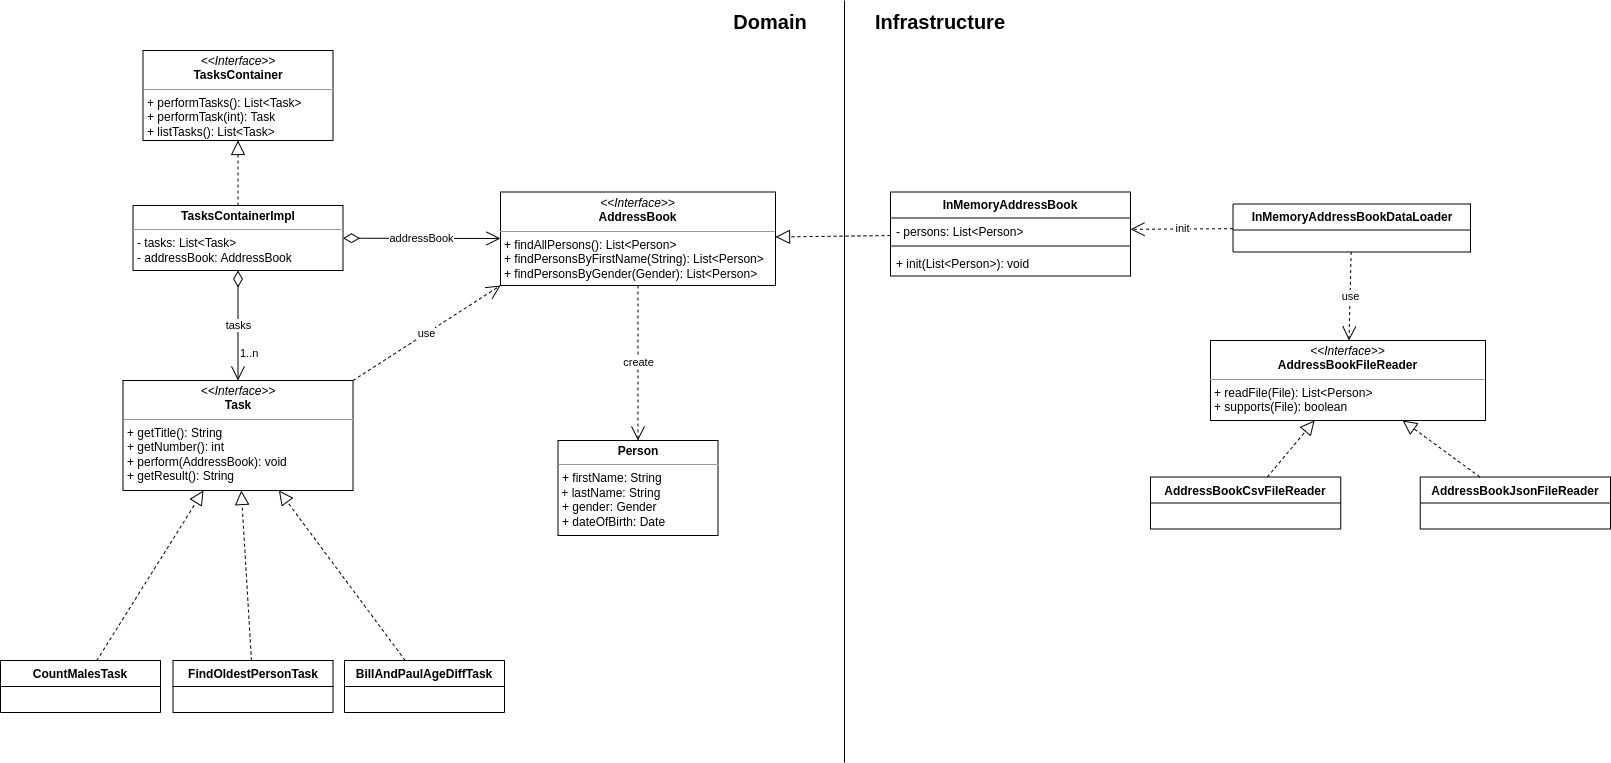
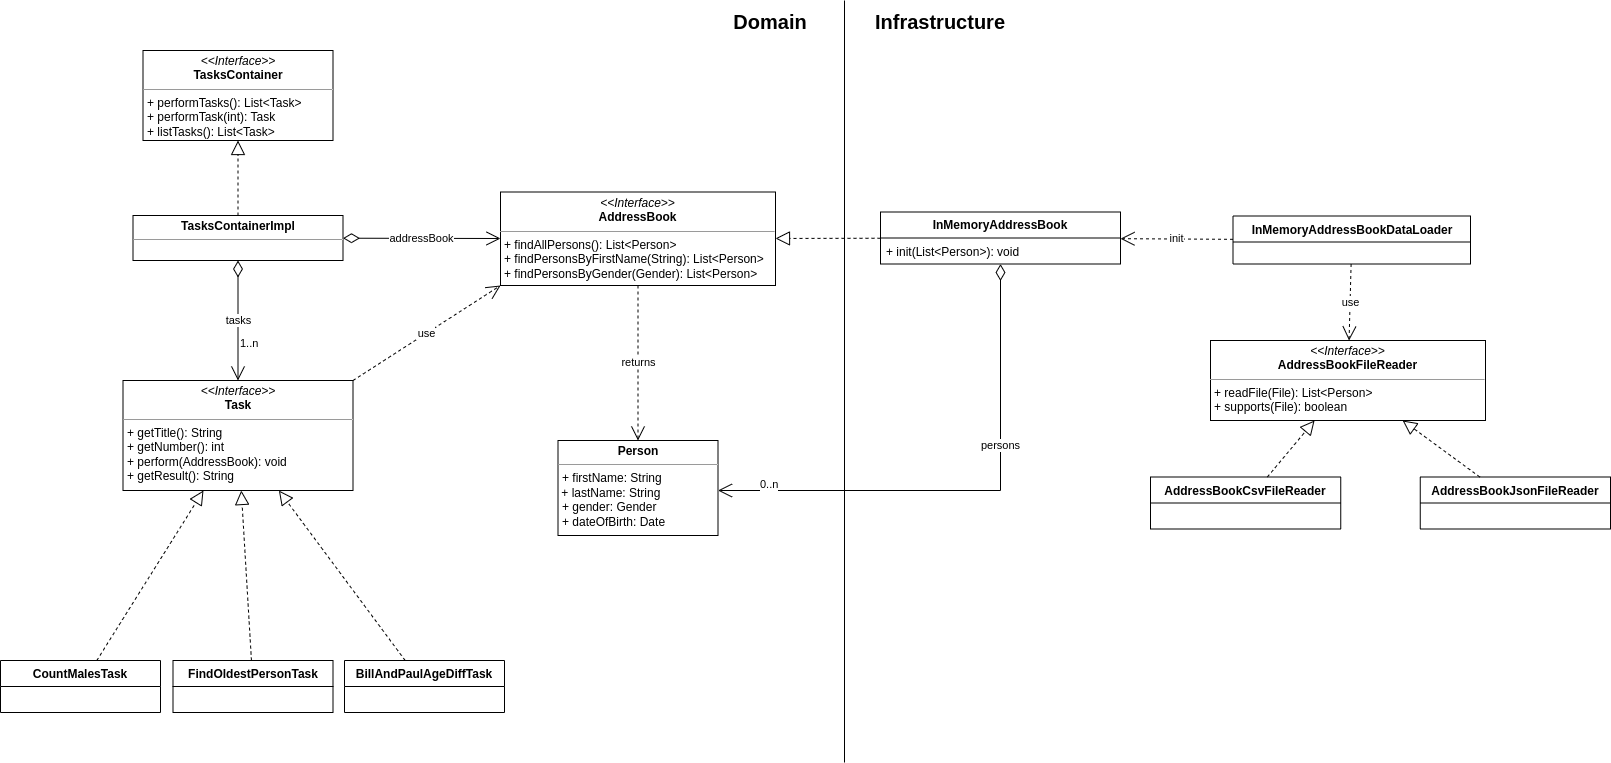
Added AddressBookFileReader and InMemoryAddressBookDataLoader to fill InMemoryAddressBook with persons from file; added integration test; added info to readme file.

diff --git a/src/main/java/com/example/addressbook/infrastructure/file/reader/csv/AddressBookCsvFileReader.java b/src/main/java/com/example/addressbook/infrastructure/file/reader/csv/AddressBookCsvFileReader.java
@@ -1,0 +1,51 @@
+package com.example.addressbook.infrastructure.file.reader.csv;
+
+import com.example.addressbook.domain.model.Gender;
+import com.example.addressbook.domain.model.Person;
+import com.example.addressbook.infrastructure.file.reader.AddressBookFileReader;
+import com.example.addressbook.infrastructure.file.reader.csv.model.CsvPerson;
+import com.example.addressbook.infrastructure.inmemory.InMemoryAddressBook;
+import com.opencsv.bean.CsvToBeanBuilder;
+import java.io.File;
+import java.io.FileReader;
+import java.util.List;
+import lombok.SneakyThrows;
+import lombok.extern.slf4j.Slf4j;
+import org.springframework.boot.autoconfigure.condition.ConditionalOnBean;
+import org.springframework.core.Ordered;
+import org.springframework.core.annotation.Order;
+import org.springframework.stereotype.Component;
+
+@ConditionalOnBean(InMemoryAddressBook.class)
+@Order(Ordered.HIGHEST_PRECEDENCE)
+@Component
+@Slf4j
+public class AddressBookCsvFileReader implements AddressBookFileReader {
+
+  @SneakyThrows
+  @Override
+  public List<Person> readFile(File file) {
+    try (var fileReader = new FileReader(file)) {
+      var csvToBeanBuilder = new CsvToBeanBuilder<CsvPerson>(fileReader);
+      List<CsvPerson> csvPersons = csvToBeanBuilder.withType(CsvPerson.class).build().parse();
+      log.debug("Parsed csv persons: {}", csvPersons);
+
+      return csvPersons.stream().map(this::map).toList();
+    }
+  }
+
+  private Person map(CsvPerson csvPerson) {
+
+    var parts = csvPerson.getFullName().trim().split("\\s", 2);
+    return new Person(
+        parts[0],
+        parts.length > 1 ? parts[1] : "",
+        Gender.valueOf(csvPerson.getGender().trim().toUpperCase()),
+        csvPerson.getDateOfBirth());
+  }
+
+  @Override
+  public boolean supports(File file) {
+    return file.getName().toLowerCase().trim().endsWith(".csv");
+  }
+}

diff --git a/src/main/java/com/example/addressbook/AddressBookApplication.java b/src/main/java/com/example/addressbook/AddressBookApplication.java
@@ -1,12 +1,51 @@
 package com.example.addressbook;
 
+import com.example.addressbook.domain.tasks.Task;
+import com.example.addressbook.domain.tasks.TaskContainer;
+import lombok.AccessLevel;
+import lombok.NoArgsConstructor;
+import lombok.RequiredArgsConstructor;
+import org.springframework.boot.ApplicationArguments;
+import org.springframework.boot.ApplicationRunner;
 import org.springframework.boot.SpringApplication;
 import org.springframework.boot.autoconfigure.SpringBootApplication;
 
 @SpringBootApplication
-public class AddressBookApplication {
+@RequiredArgsConstructor
+public class AddressBookApplication implements ApplicationRunner {
 
   public static void main(String[] args) {
     SpringApplication.run(AddressBookApplication.class, args);
+  }
+
+  private final TaskContainer taskContainer;
+
+  @Override
+  public void run(ApplicationArguments args) {
+    var filePaths = args.getOptionValues(AddressBookApplication.CommandLineConstants.FILE_PATH);
+    if (filePaths != null && !filePaths.isEmpty()) {
+      taskContainer.performTasks().forEach(AddressBookApplication::printTaskToConsole);
+    } else {
+      System.err.println("Pass correct arguments");
+      printUsage();
+      System.exit(1);
+    }
+  }
+
+  private static void printTaskToConsole(Task task) {
+    System.out.printf("%d. %s%n", task.getNumber(), task.getTitle());
+    if (task.getResult() != null) {
+      System.out.println(task.getResult());
+    }
+  }
+
+  private static void printUsage() {
+    System.out.printf(
+        "Usage: java -jar address-book.jar [--%s=<file path>]%n", CommandLineConstants.FILE_PATH);
+  }
+
+  @NoArgsConstructor(access = AccessLevel.PRIVATE)
+  public static final class CommandLineConstants {
+    public static final String FILE_PATH = "filePath";
   }
 }

diff --git a/src/main/java/com/example/addressbook/infrastructure/inmemory/InMemoryAddressBookDataLoader.java b/src/main/java/com/example/addressbook/infrastructure/inmemory/InMemoryAddressBookDataLoader.java
@@ -1,0 +1,46 @@
+package com.example.addressbook.infrastructure.inmemory;
+
+import com.example.addressbook.AddressBookApplication;
+import com.example.addressbook.infrastructure.file.reader.AddressBookFileReader;
+import java.util.List;
+import lombok.RequiredArgsConstructor;
+import lombok.extern.slf4j.Slf4j;
+import org.springframework.boot.ApplicationArguments;
+import org.springframework.boot.ApplicationRunner;
+import org.springframework.core.io.FileSystemResource;
+
+/**
+ * {@link #run(ApplicationArguments args) run} method is invoked after the application context and
+ * all beans are wired up, but before anything else happens. This provides a convenient place for
+ * data to be loaded into the address book.
+ */
+@Slf4j
+@RequiredArgsConstructor
+public class InMemoryAddressBookDataLoader implements ApplicationRunner {
+
+  private final InMemoryAddressBook inMemoryAddressBook;
+  private final List<AddressBookFileReader> addressBookFileReaders;
+
+  @Override
+  public void run(ApplicationArguments args) {
+    log.debug("Started loading data for Address Book...");
+
+    var filePaths = args.getOptionValues(AddressBookApplication.CommandLineConstants.FILE_PATH);
+    if (filePaths == null || filePaths.isEmpty()) {
+      return;
+    }
+
+    var resource = new FileSystemResource(filePaths.get(0));
+    var reader =
+        addressBookFileReaders.stream()
+            .filter(r -> r.supports(resource.getFile()))
+            .findFirst()
+            .orElseGet(() -> addressBookFileReaders.get(0));
+
+    log.debug("Started reading file {}", resource.getFilename());
+    var persons = reader.readFile(resource.getFile());
+    log.debug("Persons: {}", persons);
+
+    inMemoryAddressBook.init(persons);
+  }
+}

diff --git a/src/main/java/com/example/addressbook/infrastructure/configuration/InMemoryDataLoaderConfiguration.java b/src/main/java/com/example/addressbook/infrastructure/configuration/InMemoryDataLoaderConfiguration.java
@@ -1,0 +1,24 @@
+package com.example.addressbook.infrastructure.configuration;
+
+import com.example.addressbook.infrastructure.file.reader.AddressBookFileReader;
+import com.example.addressbook.infrastructure.inmemory.InMemoryAddressBook;
+import com.example.addressbook.infrastructure.inmemory.InMemoryAddressBookDataLoader;
+import java.util.List;
+import org.springframework.boot.ApplicationRunner;
+import org.springframework.boot.autoconfigure.condition.ConditionalOnBean;
+import org.springframework.context.annotation.Bean;
+import org.springframework.context.annotation.Configuration;
+import org.springframework.core.Ordered;
+import org.springframework.core.annotation.Order;
+
+@ConditionalOnBean(InMemoryAddressBook.class)
+@Configuration
+public class InMemoryDataLoaderConfiguration {
+
+  @Order(Ordered.HIGHEST_PRECEDENCE)
+  @Bean
+  ApplicationRunner dataLoader(
+      InMemoryAddressBook inMemoryAddressBook, List<AddressBookFileReader> addressBookFileReaders) {
+    return new InMemoryAddressBookDataLoader(inMemoryAddressBook, addressBookFileReaders);
+  }
+}

diff --git a/src/main/java/com/example/addressbook/domain/AddressBook.java b/src/main/java/com/example/addressbook/domain/AddressBook.java
@@ -4,11 +4,29 @@ import com.example.addressbook.domain.model.Gender;
 import com.example.addressbook.domain.model.Person;
 import java.util.List;
 
+/** Operations related to retrieving of address book persons */
 public interface AddressBook {
 
+  /**
+   * Finds all persons in address book
+   *
+   * @return the list of all persons from address book
+   */
   List<Person> findAllPersons();
 
+  /**
+   * Finds persons with a specific first name in address book
+   *
+   * @param firstName the first name of person
+   * @return the list of persons with a specific first name
+   */
   List<Person> findPersonsByFirstName(String firstName);
 
+  /**
+   * Finds persons with a specific gender in address book
+   *
+   * @param gender
+   * @return the list of persons with a specific gender
+   */
   List<Person> findPersonsByGender(Gender gender);
 }

diff --git a/src/main/java/com/example/addressbook/infrastructure/file/reader/json/AddressBookJsonFileReader.java b/src/main/java/com/example/addressbook/infrastructure/file/reader/json/AddressBookJsonFileReader.java
@@ -1,0 +1,24 @@
+package com.example.addressbook.infrastructure.file.reader.json;
+
+import com.example.addressbook.domain.model.Person;
+import com.example.addressbook.infrastructure.file.reader.AddressBookFileReader;
+import com.example.addressbook.infrastructure.inmemory.InMemoryAddressBook;
+import java.io.File;
+import java.util.List;
+import org.springframework.boot.autoconfigure.condition.ConditionalOnBean;
+import org.springframework.stereotype.Component;
+
+@ConditionalOnBean(InMemoryAddressBook.class)
+@Component
+public class AddressBookJsonFileReader implements AddressBookFileReader {
+
+  @Override
+  public List<Person> readFile(File file) {
+    throw new UnsupportedOperationException();
+  }
+
+  @Override
+  public boolean supports(File file) {
+    return file.getName().toLowerCase().trim().endsWith(".json");
+  }
+}

diff --git a/src/main/java/com/example/addressbook/domain/tasks/Task.java b/src/main/java/com/example/addressbook/domain/tasks/Task.java
@@ -2,13 +2,34 @@ package com.example.addressbook.domain.tasks;
 
 import com.example.addressbook.domain.AddressBook;
 
+/** Interface describes task and operations to run it and get the result */
 public interface Task {
 
+  /**
+   * Returns the title of task
+   *
+   * @return the title of task describing the purpose of that task
+   */
   String getTitle();
 
+  /**
+   * Returns the number of task
+   *
+   * @return the number of task that identifies that task
+   */
   int getNumber();
 
+  /**
+   * Performs task using address book
+   *
+   * @param addressBook address book containing persons information
+   */
   void perform(AddressBook addressBook);
 
+  /**
+   * Returns the result of performed task
+   *
+   * @return result of task execution
+   */
   String getResult();
 }

diff --git a/src/main/java/com/example/addressbook/infrastructure/file/reader/AddressBookFileReader.java b/src/main/java/com/example/addressbook/infrastructure/file/reader/AddressBookFileReader.java
@@ -1,0 +1,25 @@
+package com.example.addressbook.infrastructure.file.reader;
+
+import com.example.addressbook.domain.model.Person;
+import java.io.File;
+import java.util.List;
+
+/** Operations related to reading of persons from a file */
+public interface AddressBookFileReader {
+
+  /**
+   * Reads persons from the given file.
+   *
+   * @param file the file with persons data from address book
+   * @return the list of persons
+   */
+  List<Person> readFile(File file);
+
+  /**
+   * Checks whether reader can process that file
+   *
+   * @param file the file with persons data from address book
+   * @return true in case of the file can be processed
+   */
+  boolean supports(File file);
+}

diff --git a/src/main/java/com/example/addressbook/domain/tasks/TaskContainer.java b/src/main/java/com/example/addressbook/domain/tasks/TaskContainer.java
@@ -2,11 +2,28 @@ package com.example.addressbook.domain.tasks;
 
 import java.util.List;
 
+/** Operations related to listing and running tasks */
 public interface TaskContainer {
 
+  /**
+   * Lists tasks that can be performed
+   *
+   * @return the list of all available tasks
+   */
   List<Task> listTasks();
 
+  /**
+   * Finds task by task number and performs it
+   *
+   * @param number the number of task that should be performed
+   * @return performed task
+   */
   Task performTask(int number);
 
+  /**
+   * Iterates through available tasks and performs them
+   *
+   * @return performed tasks
+   */
   List<Task> performTasks();
 }

diff --git a/src/test/java/com/example/addressbook/AddressBookApplicationIntegrationTest.java b/src/test/java/com/example/addressbook/AddressBookApplicationIntegrationTest.java
@@ -1,0 +1,19 @@
+package com.example.addressbook;
+
+import static org.junit.jupiter.api.Assertions.assertNotNull;
+
+import org.junit.jupiter.api.Test;
+import org.springframework.beans.factory.annotation.Autowired;
+import org.springframework.boot.test.context.SpringBootTest;
+import org.springframework.context.ApplicationContext;
+
+@SpringBootTest(args = {"--filePath=AddressBook.txt"})
+class AddressBookApplicationIntegrationTest {
+
+  @Autowired private ApplicationContext applicationContext;
+
+  @Test
+  void contextLoads() {
+    assertNotNull(applicationContext);
+  }
+}

diff --git a/src/main/java/com/example/addressbook/infrastructure/file/reader/csv/model/CsvPerson.java b/src/main/java/com/example/addressbook/infrastructure/file/reader/csv/model/CsvPerson.java
@@ -1,0 +1,20 @@
+package com.example.addressbook.infrastructure.file.reader.csv.model;
+
+import com.opencsv.bean.CsvBindByPosition;
+import com.opencsv.bean.CsvDate;
+import java.util.Date;
+import lombok.Data;
+
+@Data
+public class CsvPerson {
+
+  @CsvBindByPosition(position = 0, required = true)
+  private String fullName;
+
+  @CsvBindByPosition(position = 1, required = true)
+  private String gender;
+
+  @CsvBindByPosition(position = 2, required = true)
+  @CsvDate("dd/MM/yyyy")
+  private Date dateOfBirth;
+}

diff --git a/README.md b/README.md
@@ -1,6 +1,27 @@
 
 ### Reference Documentation
 
+Application reads the attached AddressBook file and answer the following questions:
+
+- How many males are in the address book?
+- Who is the oldest person in the address book?
+- How many days older is Bill than Paul?
 
 #### Class Diagram
 ![Class Diagram](doc/class_diagram.png)
+
+#### Build
+
+With maven run the following:
+
+```
+mvn clean package
+```
+
+Artifacts are under `address-book/target` directory.
+
+#### Running
+
+From the command-line you can run address book tasks with the following command:
+
+`java -jar address-book.jar --filePath=<file path>`
